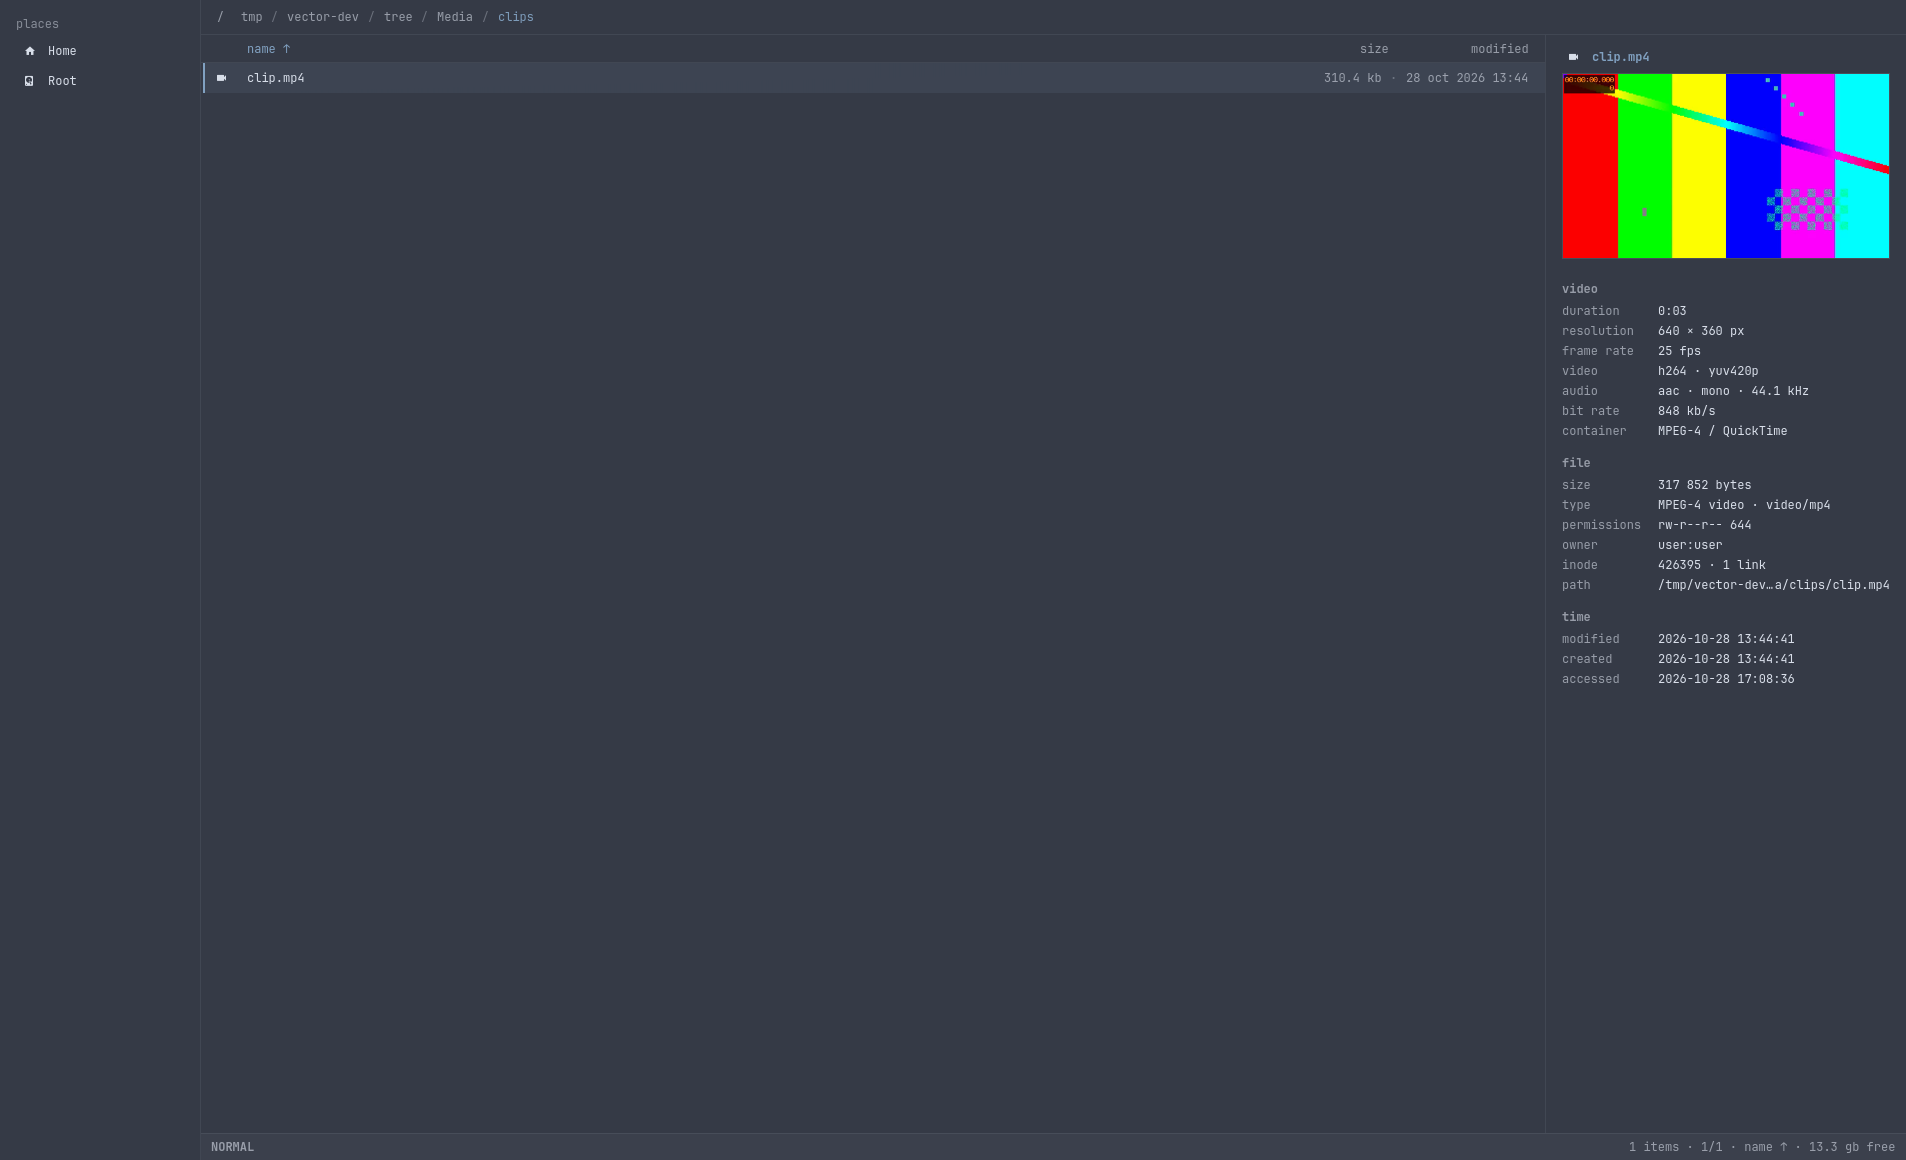
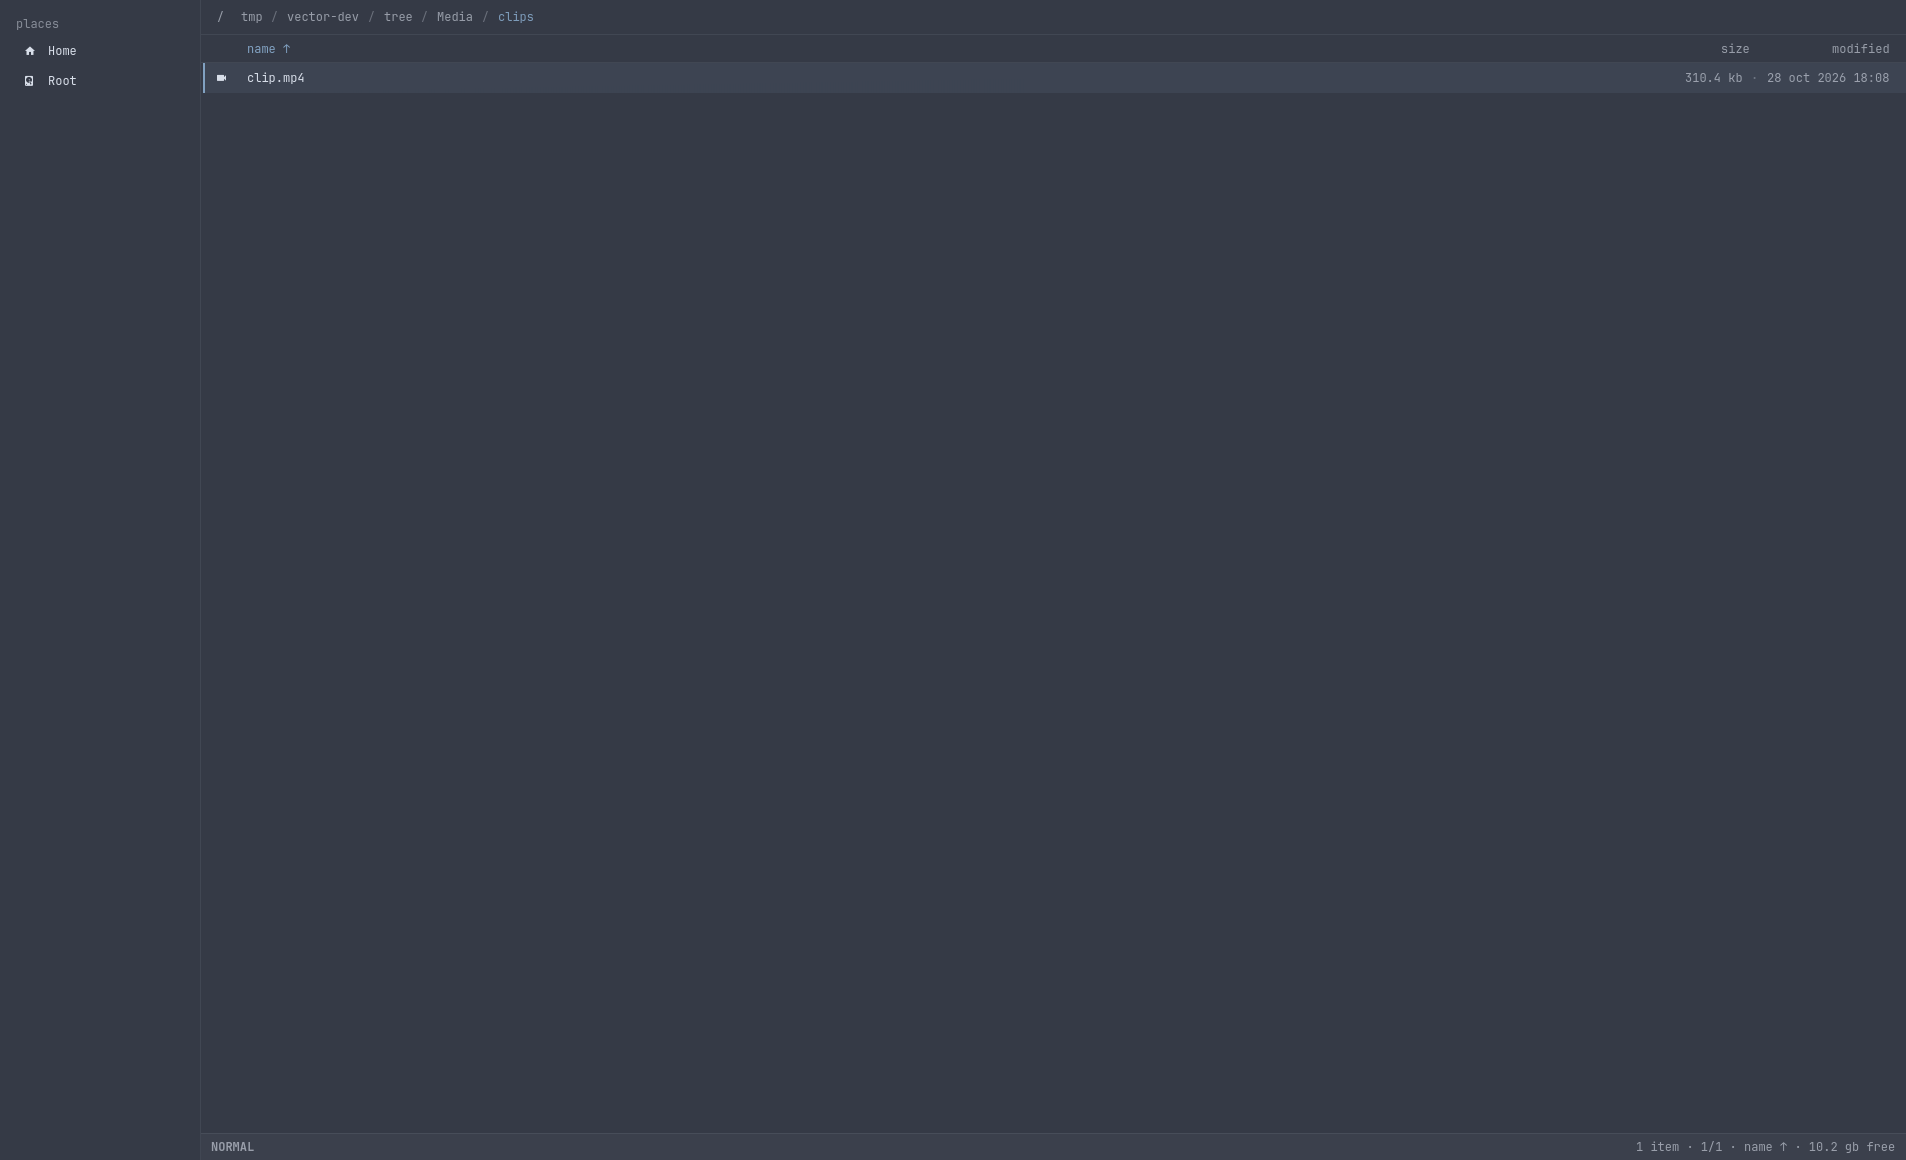
0.2.1: cursor marks after a sort, wording, test-run key names
- the cursor mark asks each row's list item where it is now: after a sort GTK
  moves rows without binding them again, so a remembered position lit a
  second row (the "three selected" look)
- "1 item"; an error naming the file already in the message isn't repeated
- --keys accepts <Delete>; README states the measured listing speed
- screenshots regenerated (full-path breadcrumbs, grid sort bar)

diff --git a/crates/vector/src/pane.rs b/crates/vector/src/pane.rs
@@ -1003,12 +1003,7 @@ impl Pane {
             let mut row = view.first_child();
             while let Some(r) = row {
                 if let Some(content) = r.first_child() {
-                    // SAFETY: only ever set to Cell<u32> by the factories below
-                    let pos = unsafe {
-                        content
-                            .data::<Cell<u32>>("vector-pos")
-                            .map(|c| c.as_ref().get())
-                    };
+                    let pos = position_of(&content);
                     if pos.is_some() && pos == cur {
                         content.add_css_class("cursor");
                     } else {
@@ -1097,9 +1092,8 @@ impl Pane {
         let w = self.root.root()?.focus()?;
         let mut cur = Some(w);
         while let Some(c) = cur {
-            if let Some(pos) = unsafe { c.data::<Cell<u32>>("vector-pos") } {
-                // SAFETY: only ever set to Cell<u32> by the factories below
-                return Some(unsafe { pos.as_ref() }.get());
+            if let Some(pos) = position_of(&c) {
+                return Some(pos);
             }
             cur = c.parent();
         }
@@ -1286,8 +1280,8 @@ fn entry_of(item: &gtk::ListItem) -> Option<Entry> {
 /// Shared per-row setup: remembers its position for focus tracking, drag source, drop target
 /// for folders, right click.
 fn common_setup(w: &gtk::Widget, item: &gtk::ListItem, pane: &Weak<Pane>) {
-    // SAFETY: the key is private to this module and always holds a Cell<u32>
-    unsafe { w.set_data("vector-pos", Cell::new(u32::MAX)) };
+    // SAFETY: the key is private to this module and always holds a WeakRef<ListItem>
+    unsafe { w.set_data("vector-item", item.downgrade()) };
     let drag = gtk::DragSource::new();
     drag.set_actions(gdk::DragAction::COPY | gdk::DragAction::MOVE);
     let (p, it) = (pane.clone(), item.downgrade());
@@ -1367,11 +1361,15 @@ fn common_setup(w: &gtk::Widget, item: &gtk::ListItem, pane: &Weak<Pane>) {
     w.add_controller(menu);
 }
 
-fn set_pos(w: &gtk::Widget, pos: u32) {
+/// Where the row's item is in the list now. Asked of the list item itself: GTK moves rows
+/// to new positions (after a sort) without binding them again, so a remembered position
+/// goes stale and would light up the wrong row.
+fn position_of(w: &gtk::Widget) -> Option<u32> {
     // SAFETY: see common_setup
-    if let Some(cell) = unsafe { w.data::<Cell<u32>>("vector-pos") } {
-        unsafe { cell.as_ref() }.set(pos);
-    }
+    let item = unsafe { w.data::<glib::WeakRef<gtk::ListItem>>("vector-item") }?;
+    let item = unsafe { item.as_ref() }.upgrade()?;
+    let pos = item.position();
+    (pos != gtk::INVALID_LIST_POSITION).then_some(pos)
 }
 
 fn label(classes: &[&str]) -> gtk::Label {
@@ -1433,7 +1431,6 @@ fn row_factory(pane: Weak<Pane>) -> gtk::SignalListItemFactory {
         else {
             return;
         };
-        set_pos(&row, item.position());
         pane.register_row(&row, item.position());
         let labels: Vec<gtk::Label> =
             std::iter::successors(row.first_child(), |w| w.next_sibling())
@@ -1542,7 +1539,6 @@ fn tile_factory(pane: Weak<Pane>) -> gtk::SignalListItemFactory {
         let (Some(tile), Some(e)) = (item.child(), entry_of(item)) else {
             return;
         };
-        set_pos(&tile, item.position());
         if let Some(p) = pane.upgrade() {
             p.register_row(&tile, item.position());
         }

diff --git a/crates/vector/src/window.rs b/crates/vector/src/window.rs
@@ -778,7 +778,10 @@ impl Win {
             parts.push(format!("loading {}", m.total()));
         } else {
             let hidden = m.total().saturating_sub(m.len());
-            parts.push(format!("{} items", m.len()));
+            parts.push(match m.len() {
+                1 => "1 item".to_string(),
+                n => format!("{n} items"),
+            });
             if hidden > 0 && m.options().filter.is_empty() && !m.options().show_hidden {
                 parts.push(format!("{hidden} hidden"));
             }
@@ -2617,7 +2620,13 @@ impl Win {
                             .errors
                             .iter()
                             .filter(|e| e.kind != ErrorKind::TrashUnsupported)
-                            .map(|e| e.to_string())
+                            // "rename a → b: name is taken", not "…: b: name is taken"
+                            .map(|e| match e.path.file_name() {
+                                Some(n) if report.label.contains(&*n.to_string_lossy()) => {
+                                    e.message.clone()
+                                }
+                                _ => e.to_string(),
+                            })
                             .collect();
                         if report.cancelled {
                             win.notify(&format!("{} cancelled", report.label));

diff --git a/crates/vector-core/src/keymap.rs b/crates/vector-core/src/keymap.rs
@@ -102,7 +102,7 @@ fn named_key(name: &str) -> Option<Key> {
         "tab" => Key::Tab,
         "s-tab" => Key::BackTab,
         "bs" => Key::Backspace,
-        "del" => Key::Delete,
+        "del" | "delete" => Key::Delete,
         "s-del" => Key::ShiftDelete,
         "up" => Key::Up,
         "down" => Key::Down,

diff --git a/README.md b/README.md
@@ -91,7 +91,8 @@ It is flat and quiet to look at, never blocks on slow disks, and asks before any
 Three rules shaped it:
 
 * **The window never freezes.** Listing, copying, measuring, searching and previews all run off the
-  main thread. A folder of 50 000 files paints in about a tenth of a second.
+  main thread. A folder of 50 000 files shows its first rows within a third of a second and is
+  fully listed in under a second, while the window keeps responding.
 * **Nothing is lost by accident.** `d` moves to the trash, `D` deletes for good after a confirmation,
   and `u` undoes renames, moves, copies, new files and trashing.
 * **Your tools stay in charge.** Files open in `$EDITOR`, terminals come from `xdg-terminal-exec` or
